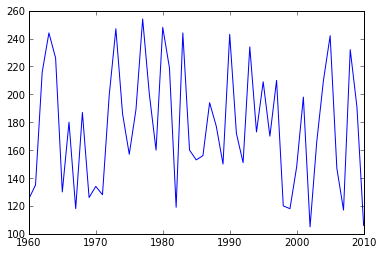
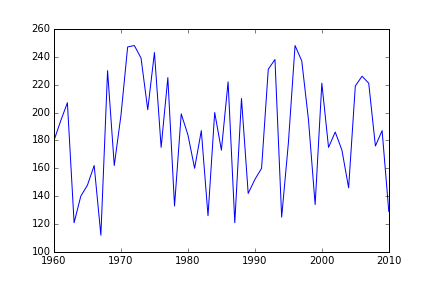
updates first lesson to reflect content of datafiles A1 and A2

Changed region(s): [[0.0, 0.0277, 1.0, 0.996], [0.9503, 0.1383, 0.9791, 0.166]]

diff --git a/01-intro-python.md b/01-intro-python.md
@@ -29,13 +29,13 @@ first file look like:
 
 ~~~
 year,temperature,rainfall,mosquitos
-2001,87,222,198
-2002,72,103,105
-2003,77,176,166
+2001,80,157,150
+2002,85,252,2177
+2003,86,154,153
 ~~~
 
 > ## Learning Objectives {.objectives}
-> 
+>
 > * Conduct variable assignment, looping, and conditionals in Python
 > * Use an external Python library
 > * Read tabular data from a file
@@ -58,21 +58,21 @@ We can now use Pandas to read our data file.
 
 
 ~~~ {.python}
-pandas.read_csv('mosquito_data_A1.csv')
+pandas.read_csv('A1_mosquito_data.csv')
 ~~~
 
 ~~~ {.output}
    year  temperature  rainfall  mosquitos
-0  2001           87       222        198
-1  2002           72       103        105
-2  2003           77       176        166
-3  2004           89       236        210
-4  2005           88       283        242
-5  2006           89       151        147
-6  2007           71       121        117
-7  2008           88       267        232
-8  2009           85       211        191
-9  2010           75       101        106
+0  2001           80       157        150
+1  2002           85       252        217
+2  2003           86       154        153
+3  2004           87       159        158
+4  2005           74       292        243
+5  2006           75       283        237
+6  2007           80       214        190
+7  2008           85       197        181
+8  2009           74       231        200
+9  2010           74       207        184
 ~~~
 
 
@@ -92,7 +92,7 @@ like this:
 
 
 ~~~ {.python}
-data = pandas.read_csv('mosquito_data_A1.csv')
+data = pandas.read_csv('A1_mosquito_data.csv')
 ~~~
 
 
@@ -107,16 +107,16 @@ print data
 
 ~~~ {.output}
    year  temperature  rainfall  mosquitos
-0  2001           87       222        198
-1  2002           72       103        105
-2  2003           77       176        166
-3  2004           89       236        210
-4  2005           88       283        242
-5  2006           89       151        147
-6  2007           71       121        117
-7  2008           88       267        232
-8  2009           85       211        191
-9  2010           75       101        106
+0  2001           80       157        150
+1  2002           85       252        217
+2  2003           86       154        153
+3  2004           87       159        158
+4  2005           74       292        243
+5  2006           75       283        237
+6  2007           80       214        190
+7  2008           85       197        181
+8  2009           74       231        200
+9  2010           74       207        184
 
 ~~~
 
@@ -131,16 +131,16 @@ data
 
 ~~~ {.output}
    year  temperature  rainfall  mosquitos
-0  2001           87       222        198
-1  2002           72       103        105
-2  2003           77       176        166
-3  2004           89       236        210
-4  2005           88       283        242
-5  2006           89       151        147
-6  2007           71       121        117
-7  2008           88       267        232
-8  2009           85       211        191
-9  2010           75       101        106
+0  2001           80       157        150
+1  2002           85       252        217
+2  2003           86       154        153
+3  2004           87       159        158
+4  2005           74       292        243
+5  2006           75       283        237
+6  2007           80       214        190
+7  2008           85       197        181
+8  2009           74       231        200
+9  2010           74       207        184
 ~~~
 
 
@@ -202,16 +202,16 @@ print data[['rainfall', 'temperature']]
 
 ~~~ {.output}
    rainfall  temperature
-0       222           87
-1       103           72
-2       176           77
-3       236           89
-4       283           88
-5       151           89
-6       121           71
-7       267           88
-8       211           85
-9       101           75
+0       157           80
+1       252           85
+2       154           86
+3       159           87
+4       292           74
+5       283           75
+6       214           80
+7       197           85
+8       231           74
+9       207           74
 
 ~~~
 
@@ -226,8 +226,8 @@ print data[0:2]
 
 ~~~ {.output}
    year  temperature  rainfall  mosquitos
-0  2001           87       222        198
-1  2002           72       103        105
+0  2001           80       157        150
+1  2002           85       252        217
 
 ~~~
 
@@ -266,7 +266,7 @@ KeyError                                  Traceback (most recent call last)
    2001             # get column
    2002             if self.columns.is_unique:
 -> 2003                 return self._get_item_cache(key)
-   2004 
+   2004
    2005             # duplicate columns
 
 /usr/lib/python2.7/dist-packages/pandas/core/generic.pyc in _get_item_cache(self, item)
@@ -284,7 +284,7 @@ KeyError                                  Traceback (most recent call last)
    1657         else:
 
 /usr/lib/python2.7/dist-packages/pandas/core/internals.pyc in _find_block(self, item)
-   1933 
+   1933
    1934     def _find_block(self, item):
 -> 1935         self._check_have(item)
    1936         for i, block in enumerate(self.blocks):
@@ -294,7 +294,7 @@ KeyError                                  Traceback (most recent call last)
    1940     def _check_have(self, item):
    1941         if item not in self.items:
 -> 1942             raise KeyError('no item named %s' % com.pprint_thing(item))
-   1943 
+   1943
    1944     def reindex_axis(self, new_axis, method=None, axis=0, copy=True):
 
 KeyError: u'no item named 1'
@@ -312,7 +312,7 @@ print data[1:2]
 
 ~~~ {.output}
    year  temperature  rainfall  mosquitos
-1  2002           72       103        105
+1  2002           85       252        217
 
 ~~~
 
@@ -327,9 +327,9 @@ print data.iloc[1]
 
 ~~~ {.output}
 year           2002
-temperature      72
-rainfall        103
-mosquitos       105
+temperature      85
+rainfall        252
+mosquitos       217
 Name: 1, dtype: int64
 
 ~~~
@@ -344,8 +344,8 @@ print data.iloc[1:3]
 
 ~~~ {.output}
    year  temperature  rainfall  mosquitos
-1  2002           72       103        105
-2  2003           77       176        166
+1  2002           85       252        217
+2  2003           86       154        153
 
 ~~~
 
@@ -358,11 +358,11 @@ print data['temperature'][data['year'] > 2005]
 ~~~
 
 ~~~ {.output}
-5    89
-6    71
-7    88
-8    85
-9    75
+5    75
+6    80
+7    85
+8    74
+9    74
 Name: temperature, dtype: int64
 
 ~~~
@@ -379,9 +379,9 @@ print data.mean()
 
 ~~~ {.output}
 year           2005.5
-temperature      82.1
-rainfall        187.1
-mosquitos       171.4
+temperature      80.0
+rainfall        214.6
+mosquitos       191.3
 dtype: float64
 
 ~~~
@@ -396,9 +396,9 @@ print data.max()
 
 ~~~ {.output}
 year           2010
-temperature      89
-rainfall        283
-mosquitos       242
+temperature      87
+rainfall        292
+mosquitos       243
 dtype: int64
 
 ~~~
@@ -409,7 +409,7 @@ print data['temperature'].min()
 ~~~
 
 ~~~ {.output}
-71
+74
 
 ~~~
 
@@ -419,13 +419,13 @@ print data['mosquitos'][1:3].std()
 ~~~
 
 ~~~ {.output}
-43.1335136524
+45.2548339959
 
 ~~~
 
 > ## Challenge {.challenge}
-> 
-> Import the data from `mosquito_data_A2.csv`, create a new variable
+>
+> Import the data from `A2_mosquito_data.csv`, create a new variable
 > that holds a data frame with only the weather data, and print the
 > means and standard deviations for the weather variables.
 
@@ -453,16 +453,16 @@ for temp_in_f in temps:
 ~~~
 
 ~~~ {.output}
-30.5555555556
-22.2222222222
-25.0
-31.6666666667
-31.1111111111
-31.6666666667
-21.6666666667
-31.1111111111
+26.6666666667
 29.4444444444
+30.0
+30.5555555556
+23.3333333333
 23.8888888889
+26.6666666667
+29.4444444444
+23.3333333333
+23.3333333333
 
 ~~~
 
@@ -525,12 +525,12 @@ temperatures that are greater than 80 degrees we would use:
 
 ~~~ {.python}
 temp = data['temperature'][0]
-if temp > 80:
-    print "The temperature is greater than 80"
+if temp > 75:
+    print "The temperature is greater than 75"
 ~~~
 
 ~~~ {.output}
-The temperature is greater than 80
+The temperature is greater than 75
 
 ~~~
 
@@ -543,22 +543,22 @@ Additional conditions can be handled using `elif` and `else`:
 
 ~~~ {.python}
 temp = data['temperature'][0]
-if temp < 87:
-    print "The temperature is < 87"
-elif temp > 87:
-    print "The temperature is > 87"
+if temp < 80:
+    print "The temperature is < 80"
+elif temp > 80:
+    print "The temperature is > 80"
 else:
-    print " The temperature is equal to 87"
+    print " The temperature is equal to 80"
 ~~~
 
 ~~~ {.output}
- The temperature is equal to 87
+ The temperature is equal to 80
 
 ~~~
 
 > ## Challenge {.challenge}
-> 
-> Import the data from `mosquito_data_A2.csv`, determine the mean
+>
+> Import the data from `A2_mosquito_data.csv`, determine the mean
 > temperate, and loop over the temperature values. For each value
 > print out whether it is greater than the mean, less than the mean,
 > or equal to the mean.
@@ -601,12 +601,12 @@ with since it has a longer time-series.
 
 
 ~~~ {.python}
-data = pandas.read_csv('mosquito_data_A2.csv')
+data = pandas.read_csv('A2_mosquito_data.csv')
 plt.plot(data['year'], data['mosquitos'])
 ~~~
 
 ~~~ {.output}
-[<matplotlib.lines.Line2D at 0x4a88590>]
+[<matplotlib.lines.Line2D at 0x7f0dc3da18d0>]
 ~~~
 
 ![Number of mosquitoes through time](fig/01-intro-python_66_1.png)
@@ -629,15 +629,14 @@ plt.subplot(1, 2, 2)
 plt.plot(data['year'], data['rainfall'], 'bs-')
 plt.xlabel('Year')
 plt.ylabel('Rain Fall')
-plt.show()
 ~~~
 
 ![Temperature and rainfall through time](fig/01-intro-python_68_0.png)
 
 
 > ## Challenge {.challenge}
-> 
-> Using the data in `mosquito_data_A2.csv` plot the relationship
+>
+> Using the data in `A2_mosquito_data.csv` plot the relationship
 > between the number of mosquitos and temperature and the number of
 > mosquitos and rainfall.
 
